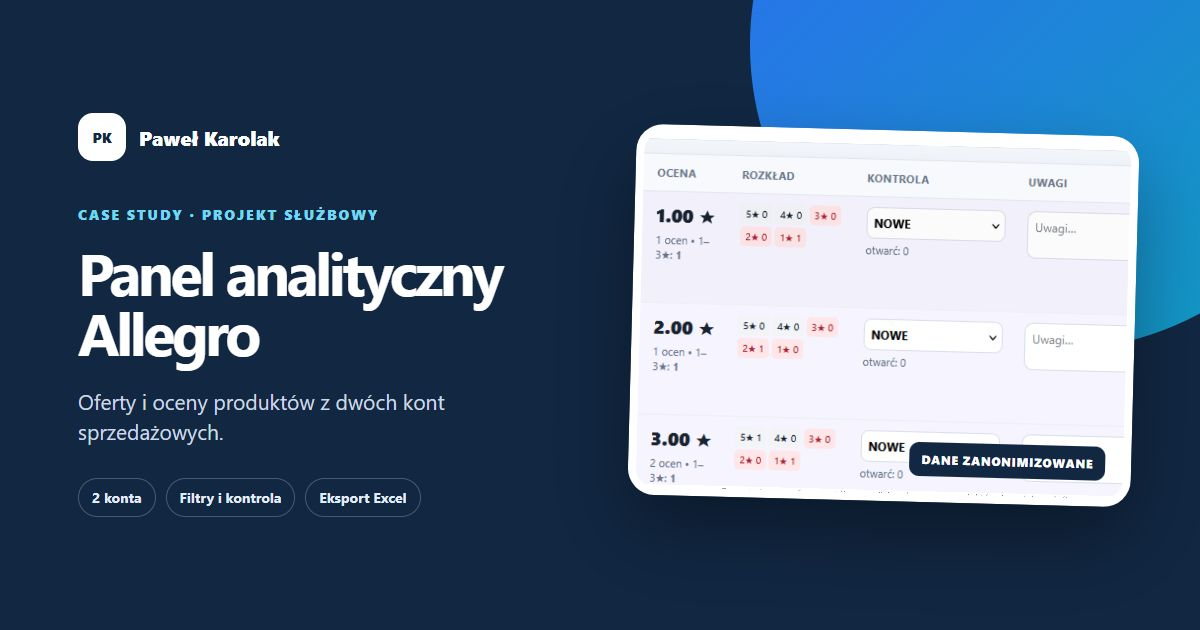
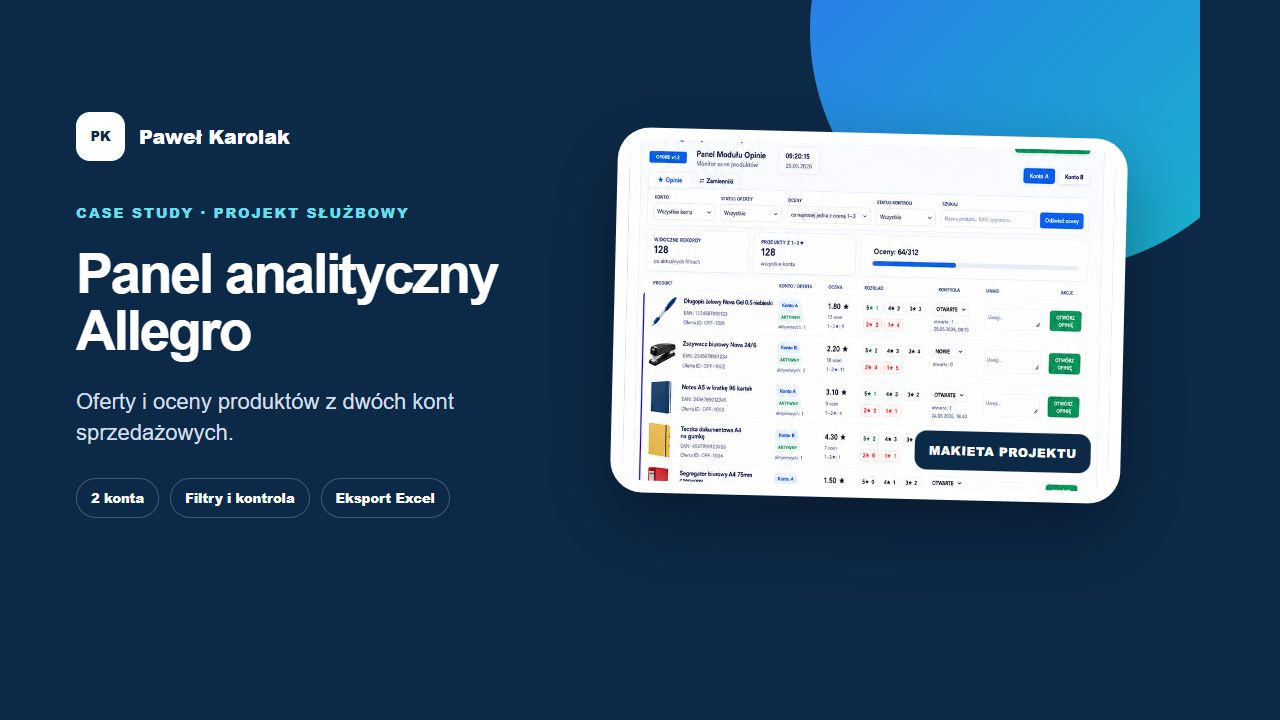
fix: use project mockups as case study covers

diff --git a/docs/index.html b/docs/index.html
@@ -65,8 +65,8 @@
       <div class="project-grid">
         <article class="project-card">
           <div class="project-visual carrier">
-            <img src="case-studies/multi-carrier/report.png" alt="Zanonimizowany ekran panelu przesyłek z raportem DHL, DPD i InPost">
-            <span class="visual-label">Zanonimizowany widok systemu</span>
+            <img src="case-studies/multi-carrier/mockup.png" alt="Makieta panelu Multi-Carrier pokazująca problem, przepływ i trzy etapy pracy">
+            <span class="visual-label">Makieta projektu · dane demonstracyjne</span>
           </div>
           <div class="project-body">
             <div class="project-kicker"><span class="chip">Projekt służbowy</span><span class="chip green">Działający pilot</span><span class="chip gray">PYC-SPORT</span></div>
@@ -84,8 +84,8 @@
 
         <article class="project-card">
           <div class="project-visual allegro">
-            <img src="case-studies/allegro/results.png" alt="Zanonimizowany widok wyników i kontroli ocen produktów">
-            <span class="visual-label">Zanonimizowany widok systemu</span>
+            <img src="case-studies/allegro/mockup.png" alt="Makieta modułu Allegro z filtrami, listą ocen i statusem kontroli">
+            <span class="visual-label">Makieta projektu · dane demonstracyjne</span>
           </div>
           <div class="project-body">
             <div class="project-kicker"><span class="chip">Projekt służbowy</span><span class="chip green">Działający pilot</span><span class="chip gray">PYC-SPORT</span></div>
@@ -109,13 +109,6 @@
         <p>Aplikacje i eksperymenty, dzięki którym rozwijam warsztat produktowy, integracje, testowanie oraz świadome wykorzystanie narzędzi AI.</p>
       </div>
       <div class="own-grid">
-        <article class="own-card">
-          <span class="own-icon" aria-hidden="true">AI</span>
-          <div class="project-kicker" style="margin-top:22px"><span class="chip orange">Projekt lokalny</span></div>
-          <h3>AI Job Assistant</h3>
-          <p>Lokalna aplikacja Node.js/Express z rozszerzeniem Chrome do analizy ofert, dopasowania profilu i przygotowywania dokumentów aplikacyjnych.</p>
-          <div class="card-actions"><span class="chip gray">Node.js</span><span class="chip gray">Express</span><span class="chip gray">Chrome</span></div>
-        </article>
         <article class="own-card">
           <span class="own-icon" aria-hidden="true">M</span>
           <div class="project-kicker" style="margin-top:22px"><span class="chip orange">Android · MVP testerskie</span></div>

diff --git a/docs/allegro.html b/docs/allegro.html
@@ -34,7 +34,7 @@
         <p class="hero-note">Kod nie jest publiczny. Wszystkie widoczne nazwy, identyfikatory i dane zostały zanonimizowane lub wymyślone.</p>
       </div>
       <div class="case-visual" aria-label="Zanonimizowany widok panelu Allegro">
-        <div class="case-shot allegro"><img src="case-studies/allegro/results.png" alt="Panel wyników z ocenami, rozkładem ocen i statusem kontroli"><span class="case-status">Działający pilot</span></div>
+        <div class="case-shot allegro mockup-cover"><img src="case-studies/allegro/mockup.png" alt="Makieta panelu Allegro z filtrami, listą produktów i kontrolą ocen"><span class="case-status">Działający pilot</span></div>
       </div>
     </header>
 
@@ -98,6 +98,11 @@
 
     <section aria-labelledby="privacy-title">
       <div class="privacy-note"><span class="privacy-icon" aria-hidden="true">✓</span><div><h3 id="privacy-title">Poufność</h3><p>Case study nie zawiera nazw kont sprzedażowych, rzeczywistych produktów, identyfikatorów ofert, adresów panelu, danych dostępowych ani tokenów API. Widoczne nazwy i rekordy są przykładowe lub zanonimizowane. Kod pozostaje niepubliczny.</p></div></div>
+    </section>
+
+    <section aria-labelledby="mockup-title">
+      <div class="section-head"><div><span class="section-label">Makieta projektu</span><h2 id="mockup-title">Pełny moduł i jego kontekst.</h2></div><p>Plansza pokazuje moduł jako część większego zestawu narzędzi: od celu i kryteriów filtrowania po widok główny oraz raport Excel. Korzyści na makiecie są hipotezą zastosowania, nie wynikiem pomiaru.</p></div>
+      <figure class="mockup-board portrait"><a href="case-studies/allegro/mockup.png" target="_blank" rel="noopener" aria-label="Otwórz pełną makietę modułu Allegro"><img src="case-studies/allegro/mockup.png" alt="Pełna zanonimizowana makieta modułu filtrowania ocen Allegro" loading="lazy"><span>Otwórz pełną rozdzielczość ↗</span></a><figcaption>Makieta wykorzystuje dane demonstracyjne. Wymienione na planszy korzyści biznesowe są hipotezą zastosowania, a nie wynikiem pomiaru. Faktyczny status projektu: działający pilot bez stałego hostingu produkcyjnego.</figcaption></figure>
     </section>
 
     <section aria-label="Następny projekt"><a class="next-project" href="multi-carrier.html"><span><small>Drugie case study służbowe</small><strong>Panel analizy przesyłek — Multi-Carrier</strong></span><span class="arrow" aria-hidden="true">→</span></a></section>

diff --git a/docs/portfolio.css b/docs/portfolio.css
@@ -348,8 +348,8 @@ section { padding-top: 104px; }
 
 .project-card:hover .project-visual img { filter: saturate(1.08) contrast(1.02); }
 
-.project-visual.carrier img { object-position: center 42%; }
-.project-visual.allegro img { object-position: center 28%; }
+.project-visual.carrier img { object-position: center 68%; }
+.project-visual.allegro img { object-position: center 52%; }
 
 .visual-label {
   position: absolute;
@@ -464,7 +464,7 @@ section { padding-top: 104px; }
 
 .own-grid {
   display: grid;
-  grid-template-columns: repeat(3, minmax(0, 1fr));
+  grid-template-columns: repeat(2, minmax(0, 1fr));
   gap: 18px;
 }
 
@@ -614,6 +614,8 @@ footer a { color: var(--blue); }
 .case-shot img { width: 100%; height: 100%; object-fit: cover; }
 .case-shot.carrier img { object-position: center 42%; }
 .case-shot.allegro img { object-position: center 24%; }
+.case-shot.mockup-cover.carrier img { object-position: center; }
+.case-shot.mockup-cover.allegro img { object-position: center 52%; }
 
 .case-status {
   position: absolute;
@@ -771,6 +773,49 @@ footer a { color: var(--blue); }
   font-size: 13px;
 }
 
+.mockup-board {
+  margin: 0;
+  overflow: hidden;
+  border: 1px solid var(--line);
+  border-radius: 26px;
+  background: #f4f7fb;
+  box-shadow: var(--shadow-small);
+}
+
+.mockup-board.portrait { width: min(100%, 900px); margin-inline: auto; }
+
+.mockup-board a {
+  position: relative;
+  display: block;
+  background: #f4f7fb;
+  cursor: zoom-in;
+}
+
+.mockup-board img { display: block; width: 100%; height: auto; }
+
+.mockup-board a span {
+  position: absolute;
+  top: 16px;
+  right: 16px;
+  padding: 9px 12px;
+  border-radius: 999px;
+  background: rgba(10,34,63,.9);
+  color: #fff;
+  font-size: 11px;
+  font-weight: 850;
+  letter-spacing: .03em;
+  box-shadow: 0 8px 22px rgba(10,34,63,.2);
+  pointer-events: none;
+}
+
+.mockup-board figcaption {
+  padding: 18px 20px;
+  border-top: 1px solid var(--line);
+  color: var(--muted);
+  font-size: 13px;
+  line-height: 1.55;
+}
+
 .proof-box {
   display: grid;
   grid-template-columns: .7fr 1.3fr;
@@ -917,4 +962,7 @@ footer a { color: var(--blue); }
     margin-bottom: -39px;
     z-index: 1;
   }
+  .mockup-board a { overflow-x: auto; overscroll-behavior-inline: contain; scrollbar-width: thin; }
+  .mockup-board.landscape img { width: 720px; max-width: none; }
+  .mockup-board.portrait img { width: 680px; max-width: none; }
 }

diff --git a/docs/multi-carrier.html b/docs/multi-carrier.html
@@ -34,7 +34,7 @@
         <p class="hero-note">Kod nie jest publiczny. Case study zawiera wyłącznie zanonimizowane materiały i dane przykładowe.</p>
       </div>
       <div class="case-visual" aria-label="Zanonimizowany widok panelu przesyłek">
-        <div class="case-shot carrier"><img src="case-studies/multi-carrier/report.png" alt="Panel po zakończeniu analizy z raportami dla DHL, DPD i InPost"><span class="case-status">Działający pilot</span></div>
+        <div class="case-shot carrier mockup-cover"><img src="case-studies/multi-carrier/mockup.png" alt="Makieta panelu Multi-Carrier pokazująca cały przepływ od importu do raportu"><span class="case-status">Działający pilot</span></div>
       </div>
     </header>
 
@@ -98,6 +98,11 @@
 
     <section aria-labelledby="privacy-title">
       <div class="privacy-note"><span class="privacy-icon" aria-hidden="true">✓</span><div><h3 id="privacy-title">Poufność</h3><p>Widoki w portfolio nie zawierają danych klientów, numerów przesyłek, danych dostępowych, tokenów API ani prywatnych adresów panelu. Nazwy i rekordy są przykładowe lub zanonimizowane. Kod nie jest publikowany.</p></div></div>
+    </section>
+
+    <section aria-labelledby="mockup-title">
+      <div class="section-head"><div><span class="section-label">Makieta projektu</span><h2 id="mockup-title">Cały proces na jednej planszy.</h2></div><p>Makieta porządkuje problem, przepływ danych i trzy momenty pracy użytkownika. Korzyści opisują zamierzony efekt operacyjny; potwierdzonym wynikiem są testy na około 6000 rzeczywistych rekordów.</p></div>
+      <figure class="mockup-board landscape"><a href="case-studies/multi-carrier/mockup.png" target="_blank" rel="noopener" aria-label="Otwórz pełną makietę panelu Multi-Carrier"><img src="case-studies/multi-carrier/mockup.png" alt="Pełna zanonimizowana makieta panelu Multi-Carrier" loading="lazy"><span>Otwórz pełną rozdzielczość ↗</span></a><figcaption>Jednostronicowa makieta projektu z danymi demonstracyjnymi. Kliknij lub dotknij, aby obejrzeć wszystkie szczegóły.</figcaption></figure>
     </section>
 
     <section aria-label="Następny projekt"><a class="next-project" href="allegro.html"><span><small>Następne case study</small><strong>Panel analityczny Allegro — oferty i oceny</strong></span><span class="arrow" aria-hidden="true">→</span></a></section>
